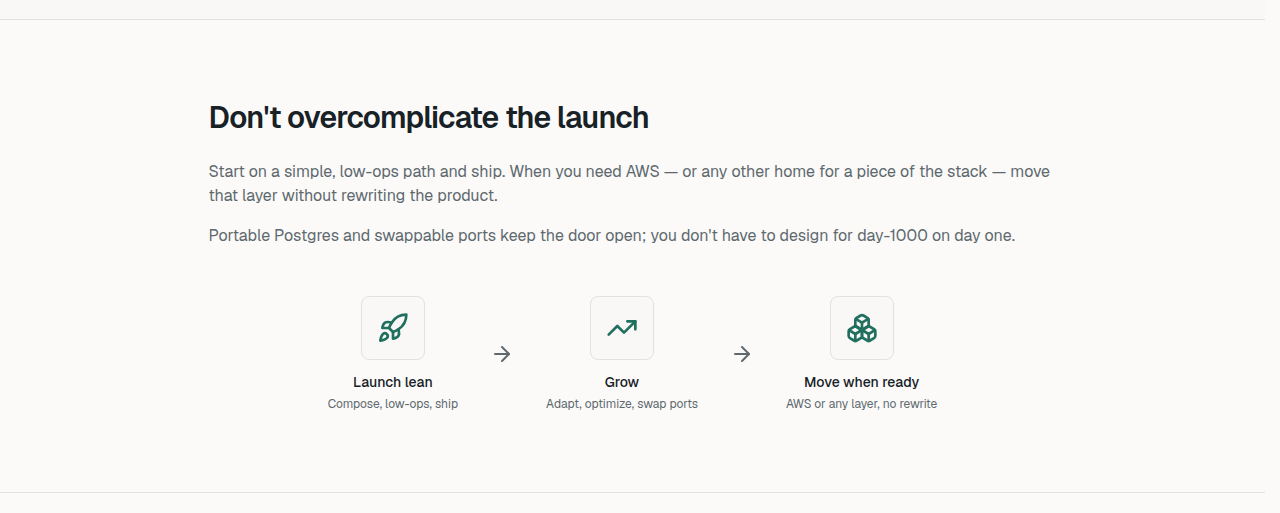
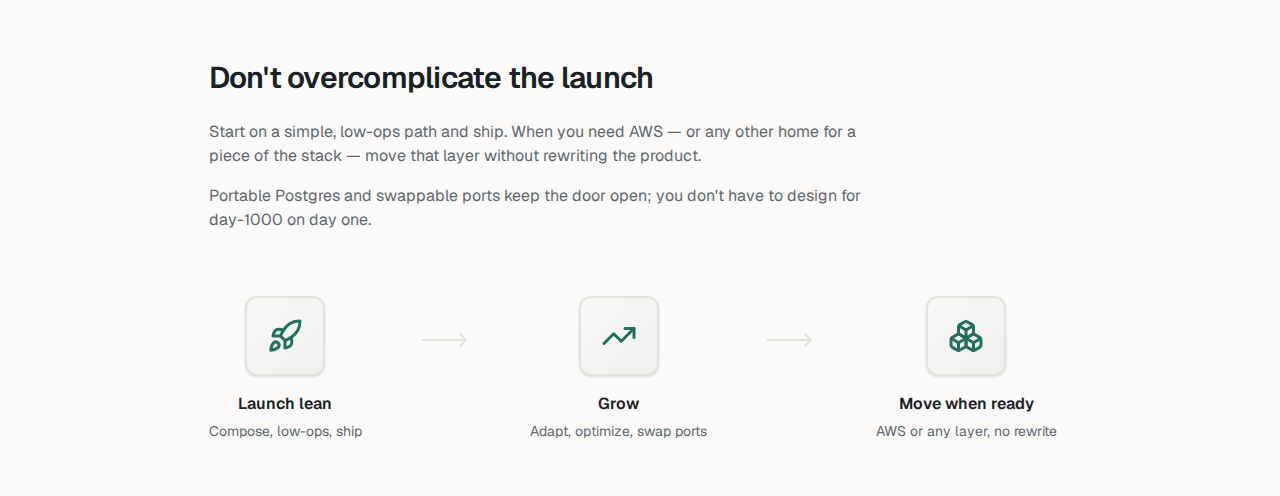
Polish landing page: premium diagram, consistent spacing, better typography

diff --git a/docs/src/routes/index.tsx b/docs/src/routes/index.tsx
@@ -1,7 +1,7 @@
 import { Link, createFileRoute } from "@tanstack/react-router";
 import { HomeLayout } from "fumadocs-ui/layouts/home";
 import { baseOptions } from "@/lib/layout.shared";
-import { ArrowRight, Rocket, TrendingUp, Boxes } from "lucide-react";
+import { Rocket, TrendingUp, Boxes } from "lucide-react";
 
 export const Route = createFileRoute("/")({
   component: Home,
@@ -50,8 +50,8 @@ function Home() {
                 GitHub
               </a>
             </div>
-            <div className="pt-2">
-              <code className="inline-block rounded bg-fd-muted px-3 py-1.5 text-sm font-mono text-fd-foreground">
+            <div className="pt-3">
+              <code className="inline-block rounded-md border border-fd-border bg-fd-muted px-4 py-2 text-sm font-mono text-fd-foreground shadow-sm">
                 pnpm create @wanialabs/zstack
               </code>
             </div>
@@ -62,15 +62,17 @@ function Home() {
         <section className="border-b border-fd-border bg-fd-card">
           <div className="mx-auto max-w-4xl px-6 py-16 sm:py-20">
             <h2 className="text-2xl font-semibold tracking-tight sm:text-3xl">Who it's for</h2>
-            <div className="mt-6 flex flex-col gap-4 text-fd-muted-foreground">
+            <div className="mt-6 max-w-2xl space-y-4 text-fd-muted-foreground">
               <p>
                 Solo founders and small teams shipping an AI-capable SaaS who want Cloudflare
                 Workers without maintaining a second Nest or Next.js API silo.
               </p>
               <p>
                 You want coding agents productive on day one. zstack ships with{" "}
-                <code className="text-sm">AGENTS.md</code>, playbooks, skills, and MCP defaults out
-                of the box.
+                <code className="rounded border border-fd-border bg-fd-background px-1.5 py-0.5 text-sm font-mono">
+                  AGENTS.md
+                </code>
+                , playbooks, skills, and MCP defaults out of the box.
               </p>
               <p className="text-sm">
                 <strong className="font-medium text-fd-foreground">Not for:</strong> dropping this
@@ -86,7 +88,7 @@ function Home() {
             <h2 className="text-2xl font-semibold tracking-tight sm:text-3xl">
               Familiar job, different axis
             </h2>
-            <div className="mt-6 flex flex-col gap-4 text-fd-muted-foreground">
+            <div className="mt-6 max-w-2xl space-y-4 text-fd-muted-foreground">
               <p>
                 Same job as T3, create-t3-turbo, Makerkit, or ShipFast: opinionated product starter
                 so you don't re-decide auth, billing shell, admin console, and email every time.
@@ -113,10 +115,10 @@ function Home() {
             <h2 className="text-2xl font-semibold tracking-tight sm:text-3xl">
               Why the idea is good
             </h2>
-            <p className="mt-4 text-fd-muted-foreground">
+            <p className="mt-4 max-w-2xl text-fd-muted-foreground">
               Boundaries, not a logo board. The architectural bets that make it coherent:
             </p>
-            <ul className="mt-6 grid gap-4 sm:grid-cols-2">
+            <ul className="mt-8 grid gap-4 sm:grid-cols-2">
               <li className="flex flex-col gap-1.5">
                 <strong className="text-sm font-medium text-fd-foreground">
                   Zod at the edge, Effect inside
@@ -175,7 +177,7 @@ function Home() {
             <h2 className="text-2xl font-semibold tracking-tight sm:text-3xl">
               Don't overcomplicate the launch
             </h2>
-            <div className="mt-6 flex flex-col gap-4 text-fd-muted-foreground">
+            <div className="mt-6 max-w-2xl space-y-4 text-fd-muted-foreground">
               <p>
                 Start on a simple, low-ops path and ship. When you need AWS — or any other home for
                 a piece of the stack — move that layer without rewriting the product.
@@ -187,44 +189,107 @@ function Home() {
             </div>
 
             {/* Progression diagram */}
-            <div className="mt-12 flex flex-col items-center gap-8 sm:flex-row sm:justify-center">
-              <div className="flex flex-col items-center gap-3 text-center">
-                <div className="flex h-16 w-16 items-center justify-center rounded-lg border border-fd-border bg-fd-card">
-                  <Rocket className="h-8 w-8 text-fd-primary" />
+            <div className="relative mt-16 flex flex-col items-center gap-12 sm:flex-row sm:items-start sm:justify-between sm:gap-4">
+              {/* Step 1 */}
+              <div className="flex w-full max-w-xs flex-col items-center gap-4 text-center sm:w-auto">
+                <div className="relative flex h-20 w-20 items-center justify-center rounded-xl border-2 border-fd-border bg-gradient-to-br from-fd-card to-fd-muted shadow-sm">
+                  <Rocket className="h-9 w-9 text-fd-primary" strokeWidth={2} />
                 </div>
-                <div className="flex flex-col gap-1">
-                  <p className="text-sm font-medium text-fd-foreground">Launch lean</p>
-                  <p className="text-xs text-fd-muted-foreground">Compose, low-ops, ship</p>
-                </div>
-              </div>
-
-              <ArrowRight className="hidden h-6 w-6 text-fd-muted-foreground sm:block" />
-              <div className="block h-6 w-6 rotate-90 text-fd-muted-foreground sm:hidden">
-                <ArrowRight className="h-6 w-6" />
-              </div>
-
-              <div className="flex flex-col items-center gap-3 text-center">
-                <div className="flex h-16 w-16 items-center justify-center rounded-lg border border-fd-border bg-fd-card">
-                  <TrendingUp className="h-8 w-8 text-fd-primary" />
-                </div>
-                <div className="flex flex-col gap-1">
-                  <p className="text-sm font-medium text-fd-foreground">Grow</p>
-                  <p className="text-xs text-fd-muted-foreground">Adapt, optimize, swap ports</p>
+                <div className="space-y-1.5">
+                  <p className="font-semibold text-fd-foreground">Launch lean</p>
+                  <p className="text-sm leading-snug text-fd-muted-foreground">
+                    Compose, low-ops, ship
+                  </p>
                 </div>
               </div>
 
-              <ArrowRight className="hidden h-6 w-6 text-fd-muted-foreground sm:block" />
-              <div className="block h-6 w-6 rotate-90 text-fd-muted-foreground sm:hidden">
-                <ArrowRight className="h-6 w-6" />
+              {/* Arrow 1 */}
+              <div className="flex shrink-0 items-center justify-center sm:mt-8">
+                <svg
+                  className="hidden h-6 w-12 text-fd-border sm:block"
+                  fill="none"
+                  viewBox="0 0 48 24"
+                  xmlns="http://www.w3.org/2000/svg"
+                >
+                  <path
+                    d="M0 12h44m0 0l-6-6m6 6l-6 6"
+                    stroke="currentColor"
+                    strokeWidth="2"
+                    strokeLinecap="round"
+                    strokeLinejoin="round"
+                  />
+                </svg>
+                <svg
+                  className="block h-12 w-6 text-fd-border sm:hidden"
+                  fill="none"
+                  viewBox="0 0 24 48"
+                  xmlns="http://www.w3.org/2000/svg"
+                >
+                  <path
+                    d="M12 0v44m0 0l-6-6m6 6l6-6"
+                    stroke="currentColor"
+                    strokeWidth="2"
+                    strokeLinecap="round"
+                    strokeLinejoin="round"
+                  />
+                </svg>
               </div>
 
-              <div className="flex flex-col items-center gap-3 text-center">
-                <div className="flex h-16 w-16 items-center justify-center rounded-lg border border-fd-border bg-fd-card">
-                  <Boxes className="h-8 w-8 text-fd-primary" />
+              {/* Step 2 */}
+              <div className="flex w-full max-w-xs flex-col items-center gap-4 text-center sm:w-auto">
+                <div className="relative flex h-20 w-20 items-center justify-center rounded-xl border-2 border-fd-border bg-gradient-to-br from-fd-card to-fd-muted shadow-sm">
+                  <TrendingUp className="h-9 w-9 text-fd-primary" strokeWidth={2} />
                 </div>
-                <div className="flex flex-col gap-1">
-                  <p className="text-sm font-medium text-fd-foreground">Move when ready</p>
-                  <p className="text-xs text-fd-muted-foreground">AWS or any layer, no rewrite</p>
+                <div className="space-y-1.5">
+                  <p className="font-semibold text-fd-foreground">Grow</p>
+                  <p className="text-sm leading-snug text-fd-muted-foreground">
+                    Adapt, optimize, swap ports
+                  </p>
+                </div>
+              </div>
+
+              {/* Arrow 2 */}
+              <div className="flex shrink-0 items-center justify-center sm:mt-8">
+                <svg
+                  className="hidden h-6 w-12 text-fd-border sm:block"
+                  fill="none"
+                  viewBox="0 0 48 24"
+                  xmlns="http://www.w3.org/2000/svg"
+                >
+                  <path
+                    d="M0 12h44m0 0l-6-6m6 6l-6 6"
+                    stroke="currentColor"
+                    strokeWidth="2"
+                    strokeLinecap="round"
+                    strokeLinejoin="round"
+                  />
+                </svg>
+                <svg
+                  className="block h-12 w-6 text-fd-border sm:hidden"
+                  fill="none"
+                  viewBox="0 0 24 48"
+                  xmlns="http://www.w3.org/2000/svg"
+                >
+                  <path
+                    d="M12 0v44m0 0l-6-6m6 6l6-6"
+                    stroke="currentColor"
+                    strokeWidth="2"
+                    strokeLinecap="round"
+                    strokeLinejoin="round"
+                  />
+                </svg>
+              </div>
+
+              {/* Step 3 */}
+              <div className="flex w-full max-w-xs flex-col items-center gap-4 text-center sm:w-auto">
+                <div className="relative flex h-20 w-20 items-center justify-center rounded-xl border-2 border-fd-border bg-gradient-to-br from-fd-card to-fd-muted shadow-sm">
+                  <Boxes className="h-9 w-9 text-fd-primary" strokeWidth={2} />
+                </div>
+                <div className="space-y-1.5">
+                  <p className="font-semibold text-fd-foreground">Move when ready</p>
+                  <p className="text-sm leading-snug text-fd-muted-foreground">
+                    AWS or any layer, no rewrite
+                  </p>
                 </div>
               </div>
             </div>
@@ -308,7 +373,7 @@ function Home() {
         <section className="border-b border-fd-border bg-fd-card">
           <div className="mx-auto max-w-4xl px-6 py-16 sm:py-20">
             <h2 className="text-2xl font-semibold tracking-tight sm:text-3xl">Honest risks</h2>
-            <div className="mt-6 flex flex-col gap-4 text-fd-muted-foreground">
+            <div className="mt-6 max-w-2xl space-y-4 text-fd-muted-foreground">
               <p>
                 zstack bets on a young surface: Effect v4 (beta), Drizzle 1 (RC), Alchemy (beta),
                 and TanStack Start. Hono, oRPC, and Better Auth are stable.
@@ -336,8 +401,8 @@ function Home() {
               Clone the monorepo, run locally on Compose, and deploy to Cloudflare when you're
               ready.
             </p>
-            <div className="mt-8 flex flex-col items-center gap-4">
-              <code className="inline-block rounded bg-fd-muted px-4 py-2 text-sm font-mono text-fd-foreground">
+            <div className="mt-8 flex flex-col items-center gap-6">
+              <code className="inline-block rounded-md border border-fd-border bg-fd-muted px-4 py-2 text-sm font-mono text-fd-foreground shadow-sm">
                 pnpm create @wanialabs/zstack
               </code>
               <div className="flex flex-wrap justify-center gap-3">
